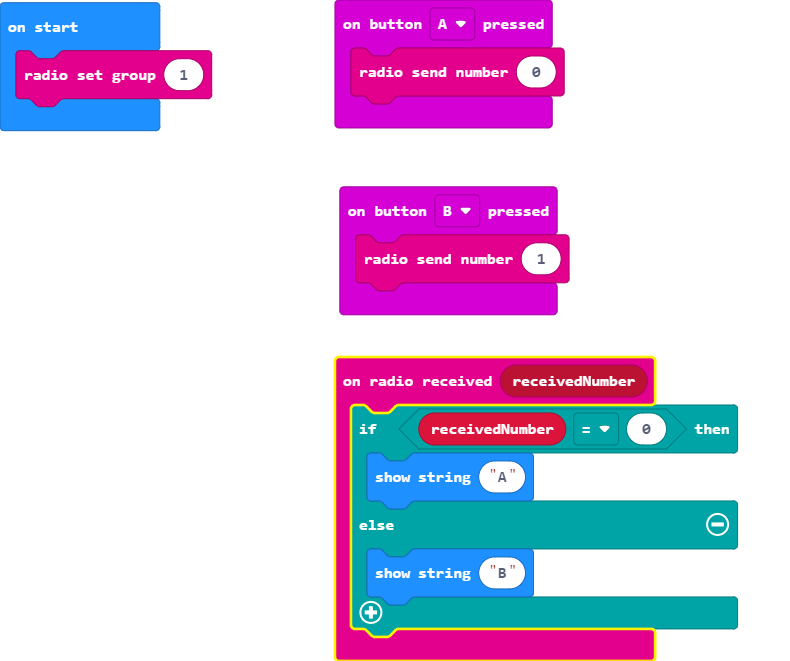
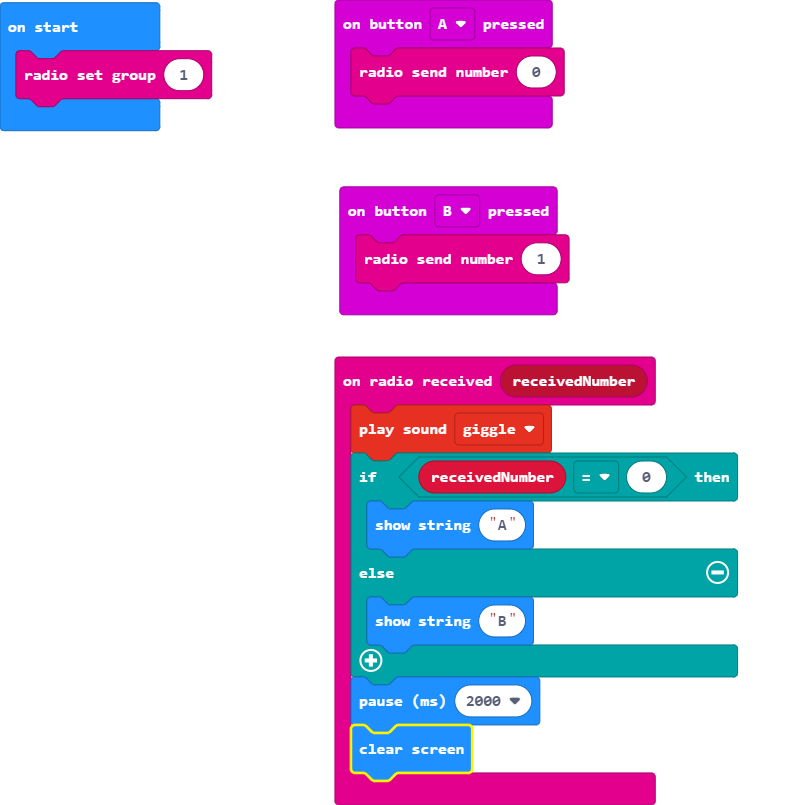
Update received + clear screen

Changed region(s): [[0.3949, 0.0, 0.9418, 1.0], [0.0, 0.0303, 0.2734, 0.2118]]

diff --git a/main.ts b/main.ts
@@ -1,9 +1,12 @@
 radio.onReceivedNumber(function (receivedNumber) {
+    soundExpression.giggle.play()
     if (receivedNumber == 0) {
         basic.showString("A")
     } else {
         basic.showString("B")
     }
+    basic.pause(2000)
+    basic.clearScreen()
 })
 input.onButtonPressed(Button.A, function () {
     radio.sendNumber(0)
